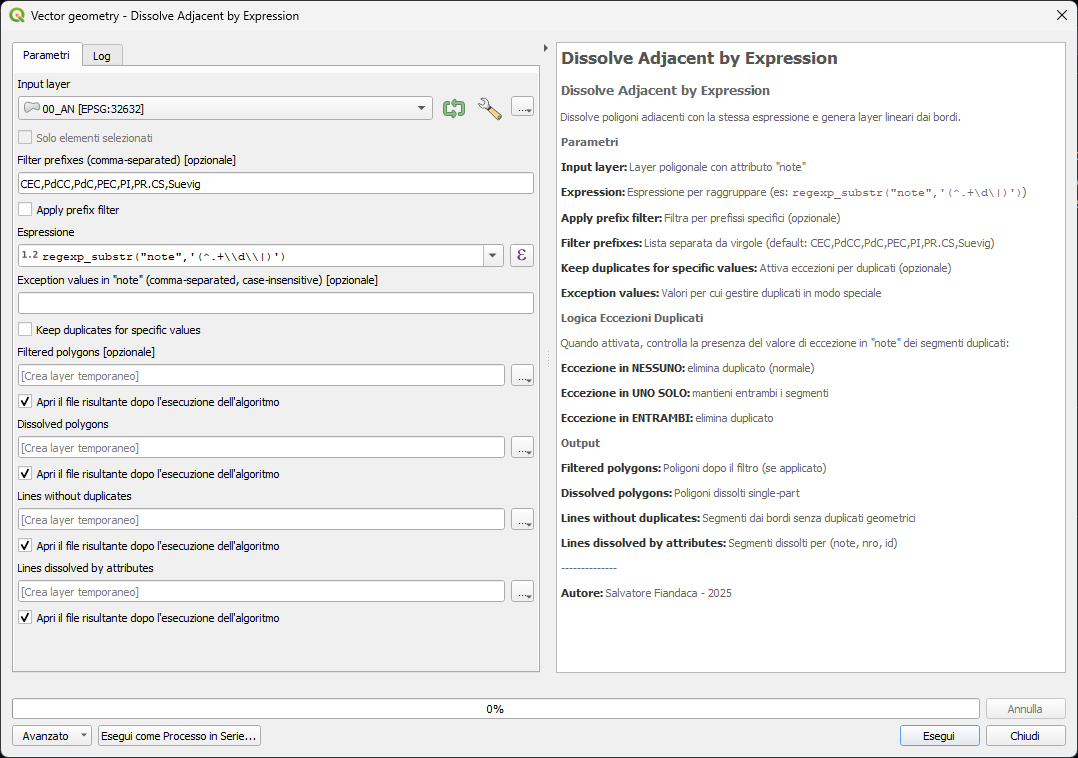
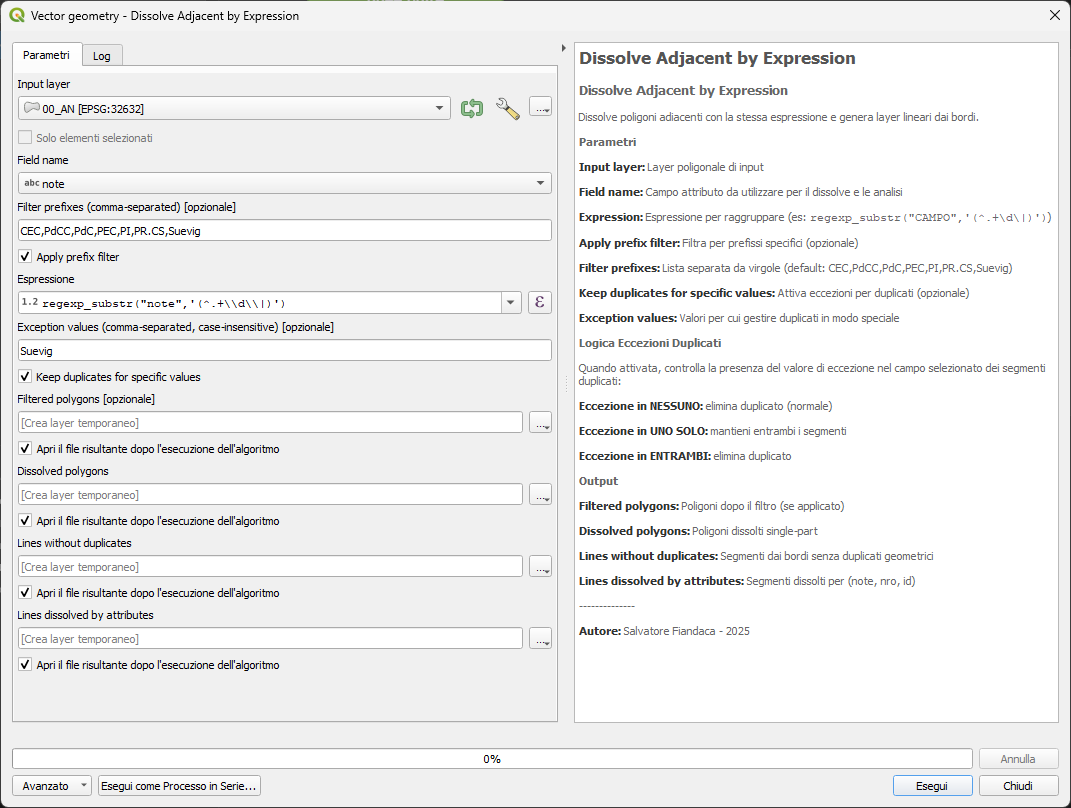
Aggiungi la versione al footer dell'algoritmo di dissolvimento e aggiorna l'immagine GUI

Changed region(s): [[0.0, 0.0607, 0.986, 1.0], [0.0, 0.0, 0.2773, 0.0303], [0.986, 0.0, 1.0, 0.0303]]

diff --git a/adjacent-dissolve-line-processor.py b/adjacent-dissolve-line-processor.py
@@ -127,7 +127,7 @@ class DissolveAdjacentByExpressionAlgorithm(QgsProcessingAlgorithm):
         <li><b>Lines dissolved by attributes:</b> Segmenti dissolti per (campo, nro, id)</li>
         </ol>
         <hr>
-        <p><b>Autore:</b> Salvatore Fiandaca - 2025</p>
+        <p><b>Autore:</b> Salvatore Fiandaca - 2025 | <b>Versione:</b> v1.0</p>
         """)
 
     def initAlgorithm(self, config=None):
